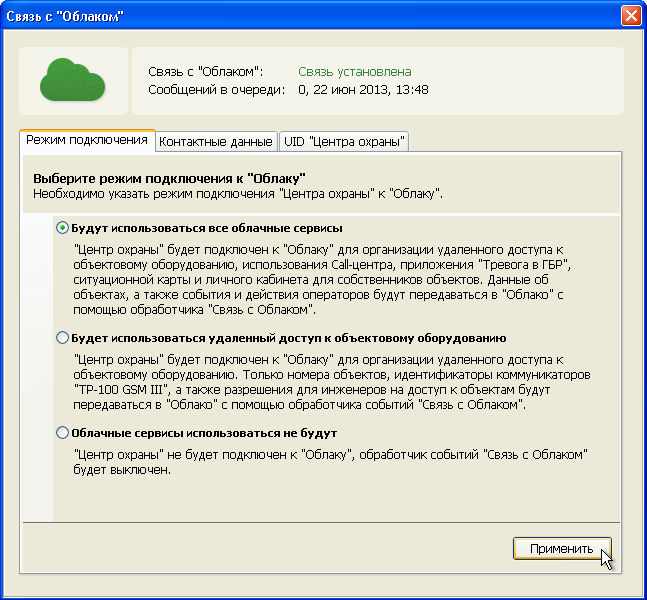
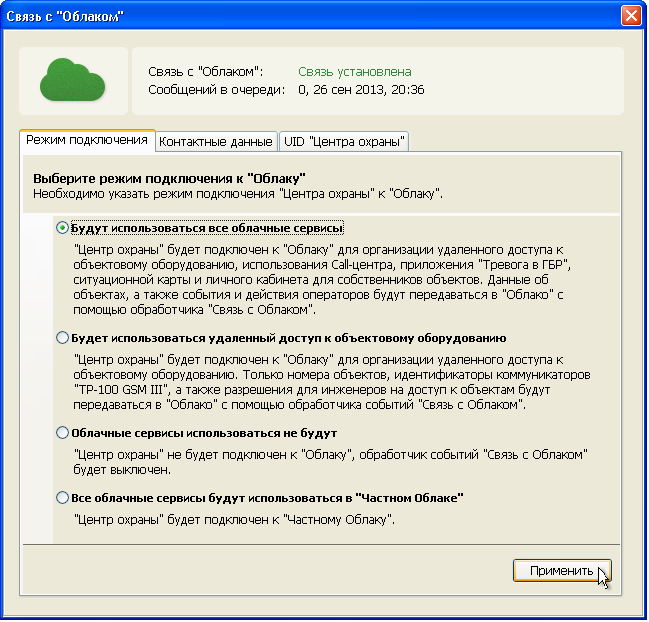
Кратко описано подключение Центра охраны к Частному Облаку

Changed region(s): [[0.0, 0.0, 1.0, 1.0], [0.2164, 0.09, 0.4328, 0.18], [0.4637, 0.09, 0.6491, 0.18]]

diff --git a/russian/security-center/04-event-manager.md b/russian/security-center/04-event-manager.md
@@ -817,9 +817,9 @@
 
 Подключение к Облаку можно использовать только для удаленного доступа к оборудованию на объекте. Данный режим подключения позволяет передавать в Облако только номера объектов, идентификаторы коммуникаторов и разрешения для инженеров на доступ к объектам. Другие Облачные сервисы будут отключены и информация по ним передаваться в «Облако» не будет.
 
-Также можно отказаться от использования всех облачных сервисов и запретить передачу каких-либо данных в Облако. Все услуги, связанные с использованием «Облака» будут недоступны. Обработчик событий «Ретранслятор в Облако» будет принудительно выключен и включение его невозможно.
-Доступ к регистрационной информации и UID Центра охраны будет невозможен. 
+Также можно отказаться от использования всех облачных сервисов и запретить передачу каких-либо данных в Облако. Все услуги, связанные с использованием «Облака» будут недоступны. Обработчик событий «Ретранслятор в Облако» будет принудительно выключен и включение его невозможно. Доступ к регистрационной информации и UID Центра охраны будет невозможен. 
 
+Использовать облачные сервисы можно также в «Частном Облаке», выбрав соответствующее подключение. Это обеспечивает повышение уровня информационной безопасности за счет установки программного обеспечения непосредственно на серверах частного охранного предприятия. Указать адрес диспетчера «Частного Облака» можно для группы обработчиков «Ретранслятор в Облако» на вкладке «Канал» окна «Параметры группы».
 
 ### Контактные данные
 
